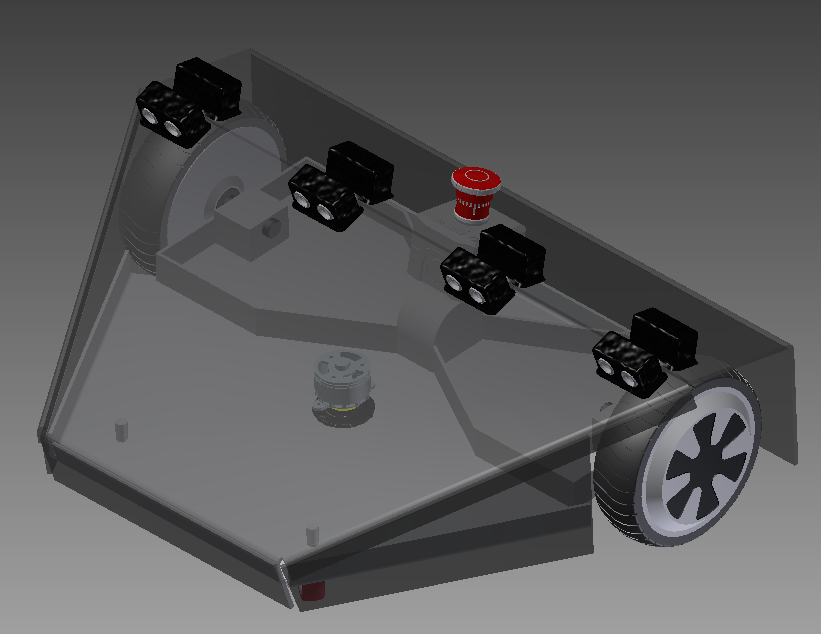
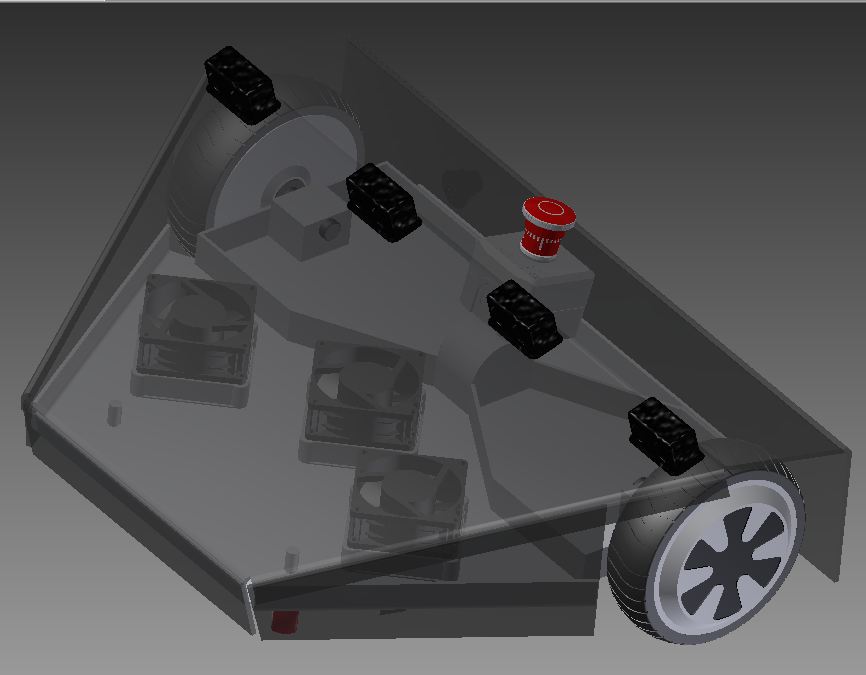
updated pictures

diff --git a/README.md b/README.md
@@ -20,7 +20,8 @@ The mechanical project is located in the folder LawnMowerMechanicalProject.
 These are some images (the base is aluminium and the cover in polycarbonate):
 ![otter](https://github.com/gaucho1978/CHEAP-LAWNMOWER-ROBOT-FROM-HOVERBOARD/blob/master/LawnmowerMechanicalProject/3D%20PROJECT%20-%20INVENTOR%202014/pictures/bottom1.png)
 ![otter](https://github.com/gaucho1978/CHEAP-LAWNMOWER-ROBOT-FROM-HOVERBOARD/blob/master/LawnmowerMechanicalProject/3D%20PROJECT%20-%20INVENTOR%202014/pictures/side.png)
-![otter](https://github.com/gaucho1978/CHEAP-LAWNMOWER-ROBOT-FROM-HOVERBOARD/blob/master/LawnmowerMechanicalProject/3D%20PROJECT%20-%20INVENTOR%202014/pictures/top.png)
+![otter](https://github.com/gaucho1978/CHEAP-LAWNMOWER-ROBOT-FROM-HOVERBOARD/blob/master/LawnmowerMechanicalProject/3D%20PROJECT%20-%20INVENTOR%202014/pictures/prospective.png)
+![otter](https://github.com/gaucho1978/CHEAP-LAWNMOWER-ROBOT-FROM-HOVERBOARD/blob/master/LawnmowerMechanicalProject/3D%20PROJECT%20-%20INVENTOR%202014/pictures/prospective2.png)
 ![otter](https://github.com/gaucho1978/CHEAP-LAWNMOWER-ROBOT-FROM-HOVERBOARD/blob/master/LawnmowerMechanicalProject/3D%20PROJECT%20-%20INVENTOR%202014/pictures/front.png)
 
 
@@ -28,15 +29,11 @@ These are some images (the base is aluminium and the cover in polycarbonate):
    LawnMowerMEchanicalProject/FILES FOR MANUFACTURING/PDF FORMAT
 - You will fing files for manufacturing plastic supports with 3d printer in the folder:
    LawnMowerMEchanicalProject/FILES FOR MANUFACTURING/3DPrinted supports
-- The blade support shall be 3d printed, then 4 cutter blades are screwed on the 4 edges of the plastic support. You could also purchase a blade for lawnmower online.
-- The shaft to fix the blade is obtained modifing a screw.
-- The shaft is maintained in its vertical position through bearings. 
-- The bearing is mainteined in its position through a 3d printed support interfacing bearing and the alluminium plate.
-- I used autolock bolts to fix the blade on the shaft.
+- The blade support shall be 3d printed. look ad detailed mechanical drawing to see how to assemble 3dprinted parts.
 
 
 ------------------------------
-#### BILL OF MATERIAL - TOTAL COST 120 EURO
+#### BILL OF MATERIAL - TOTAL COST around 160 EURO
 50 EURO - USED HOVERBOARD - https://www.mediaworld.it/product/p-742077/i-bike-kidplay-streetboard-one-hoverboard-6-5?ds_rl=1250284&ds_rl=1250284&gclid=CjwKCAjwiN_mBRBBEiwA9N-e_qMfsYSRb5w4XxsWQmA6IEDfbXj_eAiy6rWeXzdMz_envhganzewVxoCpBMQAvD_BwE&gclsrc=aw.ds
 
 20 EURO - TURNIGY 9X RADIOCONTROL OR ANY OTHER TYPE OF RC WITH PWM OUTPUT WITH AT LEAST 2 CHANNELS (ONE FOR SPEED AND ONE FOR STEERING)
@@ -49,9 +46,9 @@ These are some images (the base is aluminium and the cover in polycarbonate):
 
 1 EURO - DCDC(FOR ARDUINO AND/OR BLADE MOTOR): https://www.ebay.it/itm/122201239217
 
-10 EURO - MOTOR FOR BLADE (I REUSED MOTOR+ESC FROM A DJI S1000 MULTICOPTER, BUT YOU CAN BUY USED MOTOR FROM ELECTRIC WINDOWS OF A CAR AND ADAPT IT)
+30 EURO - MOTORS FOR BLADES (I REUSED SOME 24V FAN, powering them with modified notebook AC/DC)
 
-10 EURO - TWO 3D PRINTED SUPPORTS FOR BEARING, ONE 3D PRINTED SUPPORT FOR BLADE, AND ONE 3D PRINTED SUPPORT FOR BOLT CAP TO BE MOUNTED CLOSE TO THE BLADE  (I PRINTED THEM FOR FREE WITH MY PRINTER)
+30 EURO - 3D PRINTED SUPPORTS FOR BEARING, (I PRINTED THEM FOR FREE WITH MY PRINTER)
 
 1 EURO - FOUR BLADES FOR CUTTER (I FOUND THEM IN A LOCAL HARDWARE STORE (OBI))
 
@@ -65,7 +62,6 @@ These are some images (the base is aluminium and the cover in polycarbonate):
 
 2 EURO - PANIC BUTTON - https://www.ebay.it/itm/Rosso-fungo-Cap-1-NO-1-NC-ferma-emergenza-Pulsante-interruttore-DPST-660V-10A/123270871363?ssPageName=STRK%3AMEBIDX%3AIT&_trksid=p2057872.m2749.l2649
 
-2 EURO - TWO BEARINGS (I REUSED BEARING FROM A INLINE SKATE WHEEL)
 
 
 ------------------------------
